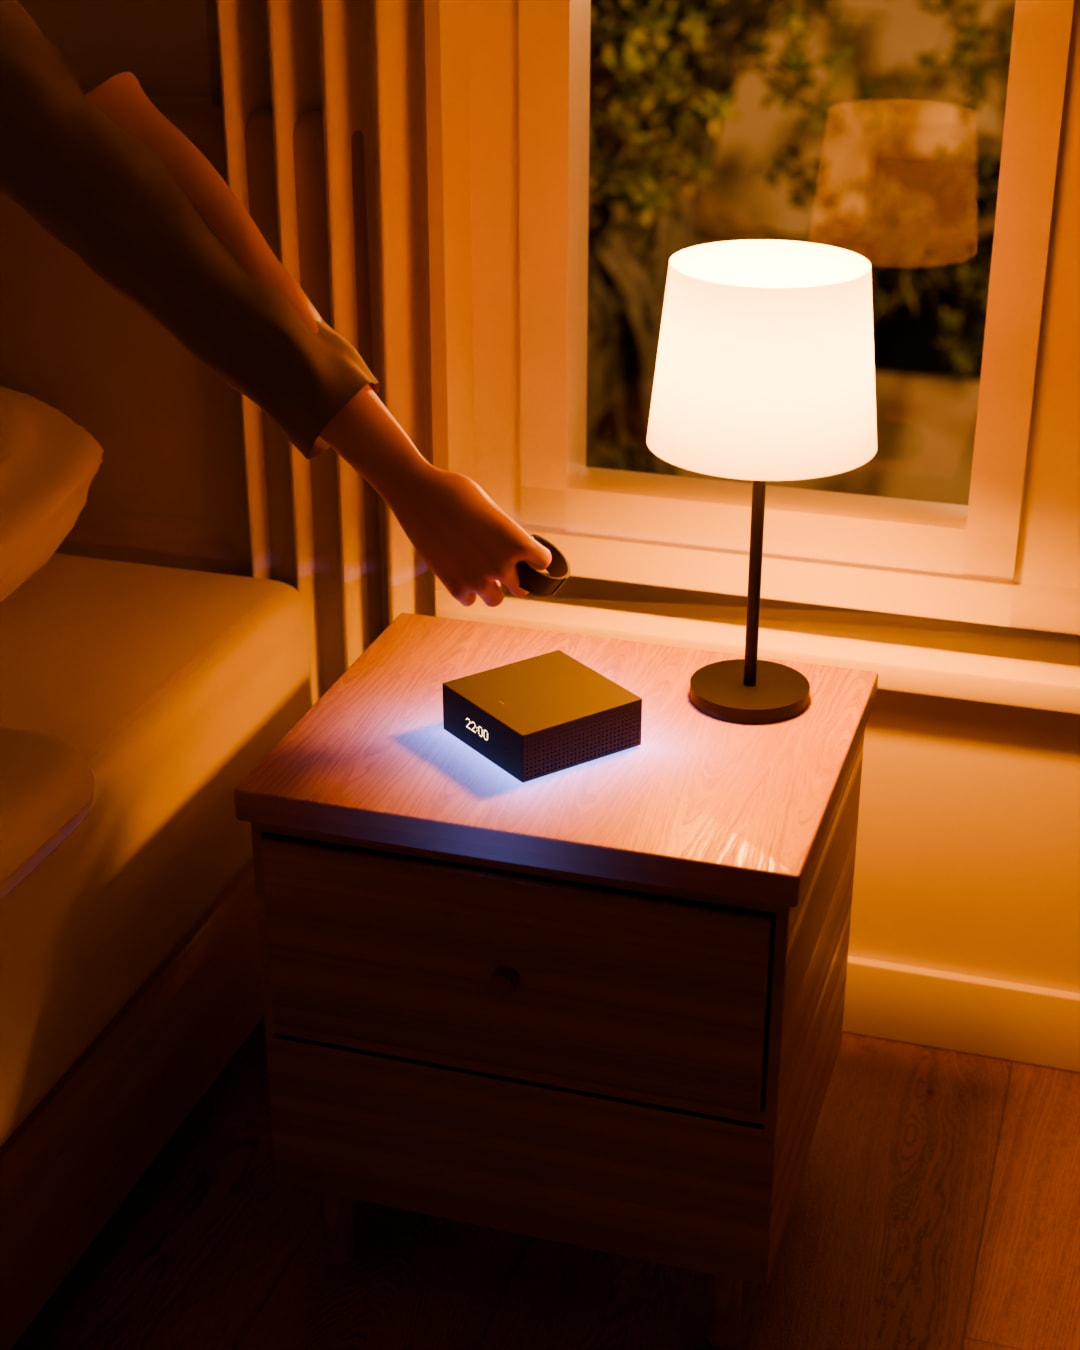
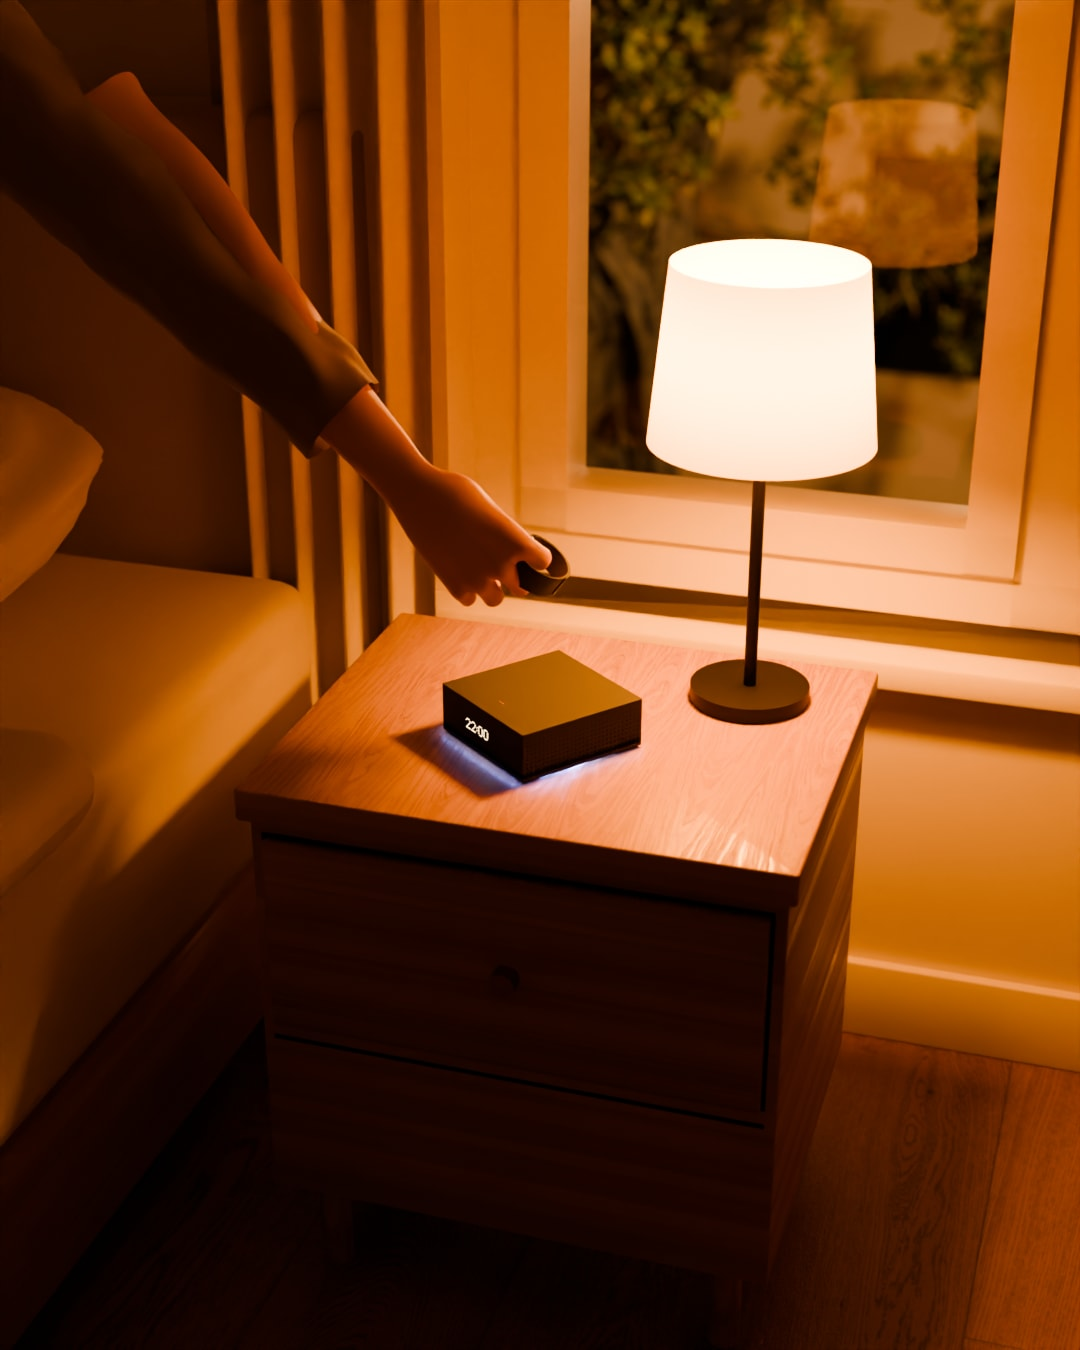
AuraWake scenes: the LED halo is real light on the wood, no painted glow

diff --git a/deck/blender/bedroom.py b/deck/blender/bedroom.py
@@ -18,6 +18,8 @@ ROOM = {   # time, lamp (share of 14 W, kelvin), ring colour or None, shutter op
     4: ('06:14', (0.13, 2800), DAWN, 0.20, 1.2, 1.0),
     5: ('06:20', (0.62, 4400), DAWN, 0.65, 0.85, 2.4),
 }
+LED_W = {1: 20000.0, 4: 16000.0, 5: 30000.0}          # emission of the strip under the base: the bright contact line
+LED_SPILL = {1: 11.0, 4: 9.0, 5: 18.0}                # emission of the light that leaves the gap all along the base's edge: the soft halo
 TEX = os.path.join(os.path.dirname(os.path.abspath(__file__)), 'assets', 'polyhaven_tex')
 FLOOR_Z, CEIL_Z, WALL_Y = -0.50, 2.20, 0.39
 BASE_ROT = math.radians(-38)                     # the base turned to the bed (owner, 2026-11-08): the time faces the pillow and the camera at about the same angle
@@ -77,29 +79,36 @@ def mat_room():
     sk.inputs['Subsurface Weight'].default_value = 0.35; sk.inputs['Subsurface Radius'].default_value = (0.012, 0.005, 0.003)
     MATS['skin'] = skin
 
-def ring_glow(m, color, strength):
-    """The light ring under the base, thrown on the wood: emission that follows the wood's colour and fades from the base's edge."""
-    nt = m.node_tree; b = nt.nodes['Principled BSDF']; out = nt.nodes['Material Output']
-    def op(o, a, c=None):
-        n = nt.nodes.new('ShaderNodeMath'); n.operation = o
-        for i, x in enumerate((a, c)):
-            if x is None: continue
-            if isinstance(x, (int, float)): n.inputs[i].default_value = x
-            else: nt.links.new(x, n.inputs[i])
-        return n.outputs[0]
-    tc = nt.nodes.new('ShaderNodeTexCoord'); P = nt.nodes.new('ShaderNodeSeparateXYZ'); nt.links.new(tc.outputs['Object'], P.inputs[0])
-    X, Y = op('ADD', P.outputs[0], 0.02), op('ADD', P.outputs[1], 0.03)                                # the base sits at (-0.02, -0.03) in the top's own space
-    c, sn = math.cos(BASE_ROT), math.sin(BASE_ROT)
-    U, V = op('ADD', op('MULTIPLY', X, c), op('MULTIPLY', Y, sn)), op('SUBTRACT', op('MULTIPLY', Y, c), op('MULTIPLY', X, sn))   # into the base's own axes
-    qx = op('MAXIMUM', op('SUBTRACT', op('ABSOLUTE', U), 0.06), 0.0)
-    qy = op('MAXIMUM', op('SUBTRACT', op('ABSOLUTE', V), 0.06), 0.0)
-    d = op('SQRT', op('ADD', op('POWER', qx, 2.0), op('POWER', qy, 2.0)))
-    fall = op('EXPONENT', op('MULTIPLY', d, -1 / 0.028))
-    diff = next(n for n in nt.nodes if n.type == 'TEX_IMAGE' and 'diff' in n.image.filepath)
-    mx = nt.nodes.new('ShaderNodeMix'); mx.data_type = 'RGBA'; mx.blend_type = 'MULTIPLY'; mx.inputs['Factor'].default_value = 0.45
-    nt.links.new(diff.outputs[0], mx.inputs[7]); mx.inputs[6].default_value = color      # mostly the ring's colour, a little of the wood's
-    em = nt.nodes.new('ShaderNodeEmission'); nt.links.new(mx.outputs[2], em.inputs[0]); nt.links.new(op('MULTIPLY', fall, strength), em.inputs[1])
-    ad = nt.nodes.new('ShaderNodeAddShader'); nt.links.new(b.outputs[0], ad.inputs[0]); nt.links.new(em.outputs[0], ad.inputs[1]); nt.links.new(ad.outputs[0], out.inputs[0])
+def led_spill(color, strength):
+    """The light that leaves the 2 mm gap: the strip fills the gap with bounced light and it spills out all along the base's edge.
+    A thin source hugging the footprint, unseen by the camera, a little stronger at the middle of each side, nearer the round strip."""
+    a, rc, t, z0 = W / 2 + 0.0016, EDGE_P + 0.0016, 0.0016, 0.0065
+    m = emit('led_spill', color, strength); nt = m.node_tree; e = next(n for n in nt.nodes if n.type == 'EMISSION')
+    tc = nt.nodes.new('ShaderNodeTexCoord'); sp = nt.nodes.new('ShaderNodeSeparateXYZ'); nt.links.new(tc.outputs['Object'], sp.inputs[0])
+    cb = nt.nodes.new('ShaderNodeCombineXYZ'); nt.links.new(sp.outputs[0], cb.inputs[0]); nt.links.new(sp.outputs[1], cb.inputs[1])
+    ln = nt.nodes.new('ShaderNodeVectorMath'); ln.operation = 'LENGTH'; nt.links.new(cb.outputs[0], ln.inputs[0])
+    d = nt.nodes.new('ShaderNodeMath'); d.operation = 'SUBTRACT'; nt.links.new(ln.outputs['Value'], d.inputs[0]); d.inputs[1].default_value = W / 2
+    k = nt.nodes.new('ShaderNodeMath'); k.operation = 'MULTIPLY'; nt.links.new(d.outputs[0], k.inputs[0]); k.inputs[1].default_value = -1 / 0.03
+    x = nt.nodes.new('ShaderNodeMath'); x.operation = 'EXPONENT'; nt.links.new(k.outputs[0], x.inputs[0])
+    f = nt.nodes.new('ShaderNodeMath'); f.operation = 'MULTIPLY'; nt.links.new(x.outputs[0], f.inputs[0]); f.inputs[1].default_value = strength; nt.links.new(f.outputs[0], e.inputs['Strength'])
+    MATS['led_spill'] = m
+    pts = []
+    for (sx, sy, a0) in ((1, 1, 0), (-1, 1, 90), (-1, -1, 180), (1, -1, 270)):
+        for i in range(13):
+            th = math.radians(a0 + 90 * i / 12); pts.append((sx * (a - rc) + rc * math.cos(th), sy * (a - rc) + rc * math.sin(th), math.cos(th), math.sin(th)))
+    bm = bmesh.new(); rings = []; ns = 8
+    for x_, y_, nx, ny in pts:
+        rings.append([bm.verts.new((x_ + t * math.cos(b) * nx, y_ + t * math.cos(b) * ny, z0 + t * math.sin(b))) for b in (2 * math.pi * j / ns for j in range(ns))])
+    for i, r0 in enumerate(rings):
+        r1 = rings[(i + 1) % len(rings)]
+        for j in range(ns): bm.faces.new((r0[j], r1[j], r1[(j + 1) % ns], r0[(j + 1) % ns]))
+    ob = link('led_spill', bm, 'led_spill'); ob.rotation_euler = (0, 0, BASE_ROT); ob.visible_camera = False; ob.visible_shadow = False
+    return ob
+
+def only_on_the_wood(*obs):
+    """Light linking: the strip lights the nightstand's top and nothing else, so its grazing rays draw no line across the room."""
+    c = bpy.data.collections.new('led_receivers'); c.objects.link(bpy.data.objects['stand_top'])
+    for ob in obs: ob.light_linking.receiver_collection = c
 
 def box(name, x0, x1, y0, y1, z0, z1, mat, r=0.0, e=0.0, sp=1, se=1):
     return rbox(name, x1 - x0, y1 - y0, z1 - z0, r, e, mat, ((x0 + x1) / 2, (y0 + y1) / 2, z0), sp=sp, se=se)
@@ -150,7 +159,7 @@ def build_curtains():
 def build_stand():
     """Oak nightstand with one drawer, 460 × 380 × 500 mm, on four short legs."""
     cx, cy, w, d = 0.02, 0.03, 0.46, 0.38
-    box('stand_top', cx - w / 2, cx + w / 2, cy - d / 2, cy + d / 2, -0.028, 0.0, 'oak_top', r=0.004, e=0.0025, sp=4, se=3)
+    box('stand_top', cx - w / 2, cx + w / 2, cy - d / 2, cy + d / 2, -0.028, 0.0, 'oak', r=0.004, e=0.0025, sp=4, se=3)
     box('stand_body', cx - w / 2 + 0.008, cx + w / 2 - 0.008, cy - d / 2 + 0.012, cy + d / 2 - 0.006, -0.40, -0.028, 'oak', r=0.002, e=0.001, sp=2, se=1)
     fy = cy - d / 2 + 0.012
     box('drawer_gap', cx - w / 2 + 0.018, cx + w / 2 - 0.018, fy - 0.001, fy, -0.225, -0.042, 'cavity')
@@ -268,15 +277,13 @@ def build_arm(n):
 def bedroom_scene(n):
     t, lamp, ring, shut, expo, sky = ROOM[n]
     mat_room()
-    MATS['led_under'] = emit('led_under', srgb(ring), 500.0) if ring else principled('led_under', srgb('#141416'), rough=0.6)
+    # the light strip is the only source of the halo (owner, 2026-11-08: real light, no glow painted on the wood): it leaves the 2 mm gap at a grazing angle, so it tints the wood and fades fast
+    MATS['led_under'] = emit('led_under', srgb(ring), LED_W[n]) if ring else principled('led_under', srgb('#141416'), rough=0.6)
     MATS['dots'] = emit('dots', srgb('#ffd9a0'), 2.5 if n == 3 else 6.0)
-    MATS['oak_top'] = MATS['oak']
-    if ring:
-        MATS['oak_top'] = pbr('oak_top', 'oak_veneer_01', 0.75, rot=math.pi / 2, bump=0.08, rough=0.8)
-        ring_glow(MATS['oak_top'], srgb(ring), {1: 3.2, 4: 2.1, 5: 4.8}[n])
     b_ = build_base(with_time=bool(t), time=t or '06:30'); b_.rotation_euler = (0, 0, BASE_ROT)
     build_shell(); build_window(shut); build_curtains(); build_stand(); build_bed(n); build_lamp(lamp)
     if shut > 0: build_outside(n)
+    if ring: only_on_the_wood(bpy.data.objects['ring'], led_spill(srgb(ring), LED_SPILL[n]))
     build_arm(n)
     set_sky(sky)
     x0, x1, z0, z1 = WIN

diff --git a/HANDOFF.md b/HANDOFF.md
@@ -1334,6 +1334,10 @@ When a CLOUD session hits something that needs the local environment, it must:
   discs in the line drawing). Real render: softbox light, AgX medium-high contrast. Slides 39–40 re-anchored, the
   radiator shares number 11 ("Sound"). Spec §8.2 updated. NB: the fork session (JustCook) has uncommitted work in
   deck/index.html and export_schemas.mjs; my small index.html edits (inside slides) ride with its commit.
+- **2026-11-08 · LOCAL (110)** · Scenes 1, 4, 5: the LED halo is real light now (owner: "più realistica"). The glow painted on the wood
+  (`ring_glow`, emission decal) is gone. The strip under the base lights the top, plus `led_spill`: a thin source along the base's edge,
+  unseen by the camera, for the light that leaves the 2 mm gap (stronger mid-side). Both are light-linked to `stand_top` only (`only_on_the_wood`),
+  otherwise the grazing rays draw a line across curtains and bed. Strengths in `LED_W` / `LED_SPILL`. Scenes 2, 3 (LED off) not re-rendered.
 - **2026-11-08 · LOCAL (109)** · Scenes: the base turned 38° towards the bed so the time reads from the pillow (`BASE_ROT` in
   bedroom.py, also applied to the ring's glow), camera moved about 15° round the nightstand to (0.46, -1.48, 0.78). The owner
   compared it side by side with the front-on version and chose this one.
